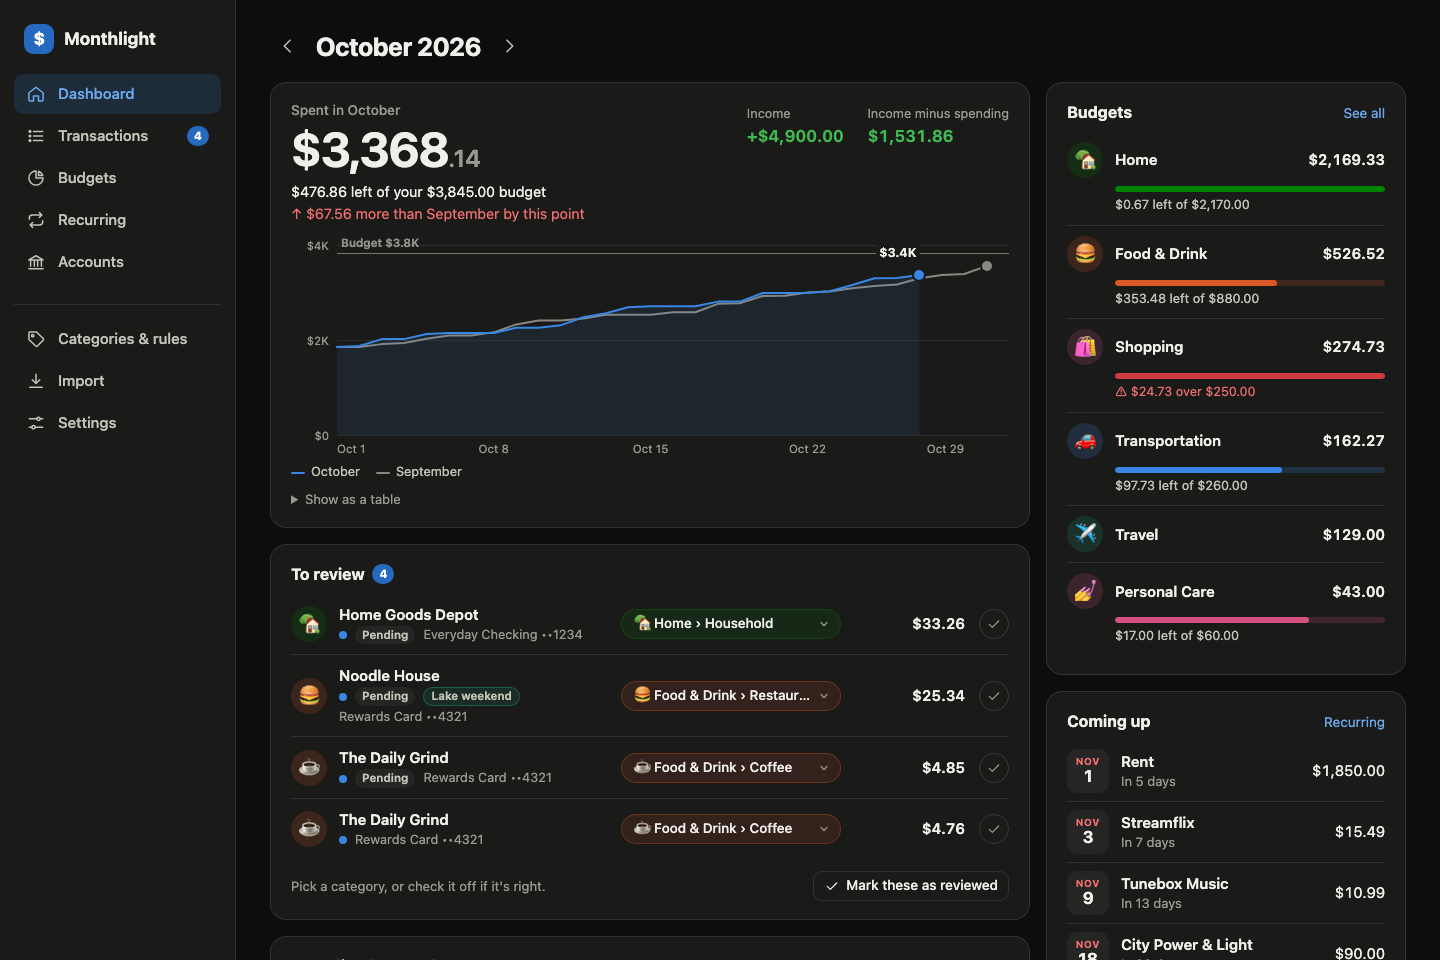
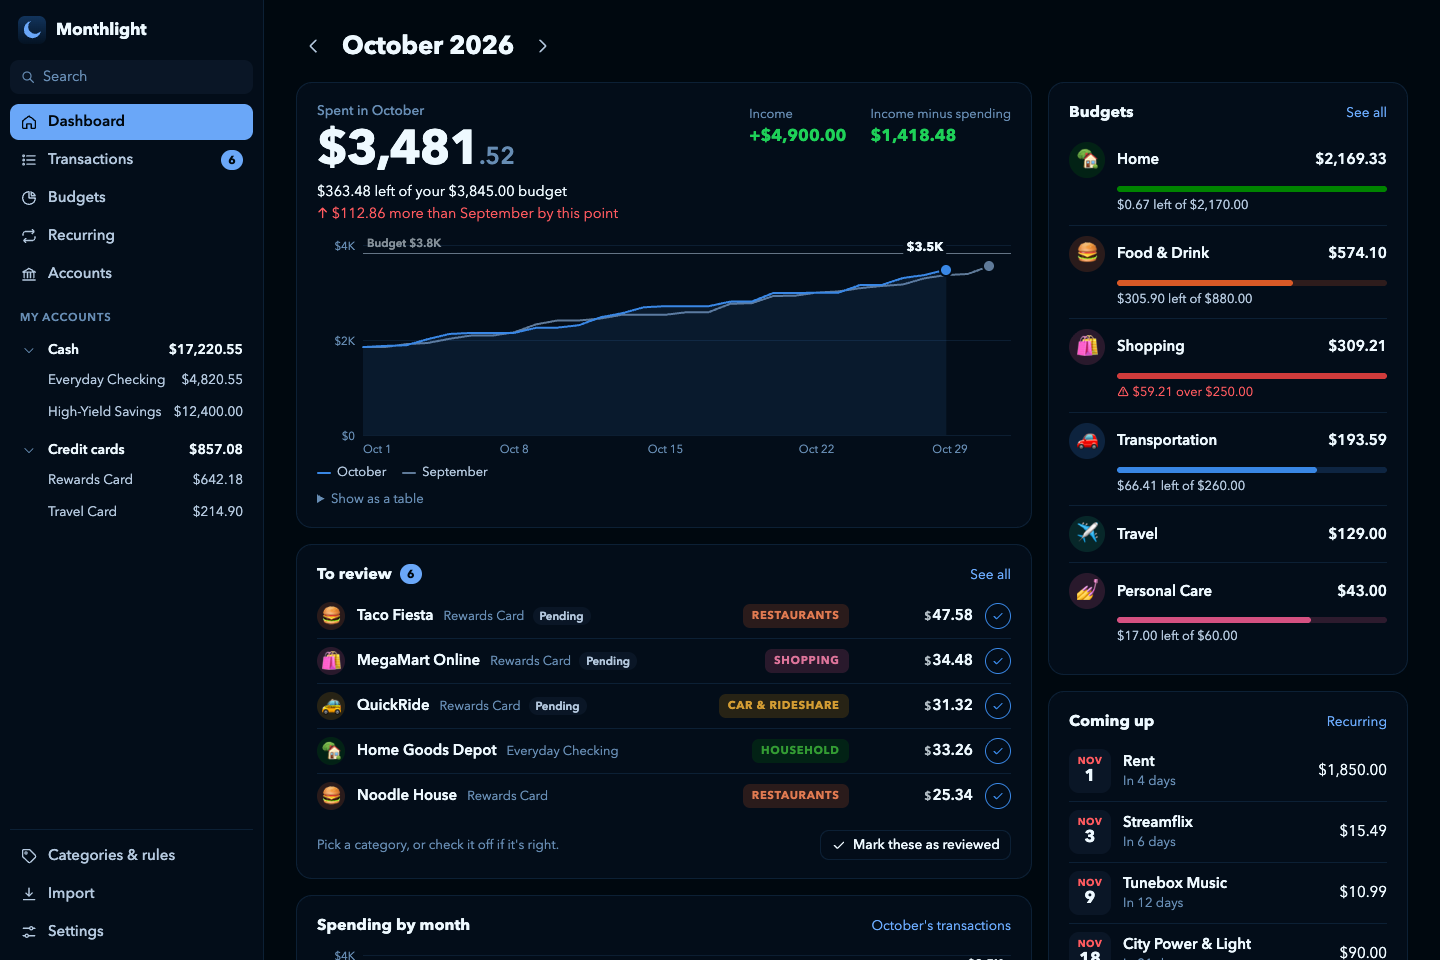
docs: fresh screenshots, and the rest of the redesign moved to v0.2.x
The README's screenshots show the new look, taken from made-up data,
the transactions with one open beside the list. The roadmap lists what
v0.2.0 brings; cleaner names, the filter menu, selecting, the keyboard
and the other pages come next, in v0.2.x, before reports.

diff --git a/ROADMAP.md b/ROADMAP.md
@@ -10,57 +10,49 @@ transactions, tags, budgets, recurring charges and net worth.
 
 ## v0.2.0: the Transactions workspace
 
-The features added so far have made the transactions screens crowded. This release reorganizes them into one
+The features added so far had made the transactions screens crowded. This release starts reorganizing them into one
 workspace, in the style of Copilot Money's Mac app.
 
-- **Three panes on a wide screen:** the sidebar, the list, and the selected transaction beside the list. A phone shows
-  one pane at a time.
+- **Look:** a theme like Copilot Money's, dark and light, on every page, and an icon for the browser tab and a
+  phone's home screen.
 - **Sidebar:** search, the pages, and the accounts by group with their balances.
 - **List:**
   - One line per transaction: name, account, the category, the amount, and small icons for splits, links, paybacks,
-    transfers, notes and tags.
+    transfers, notes and tags. A narrow list gives each row two lines.
   - Each month starts with a card showing income, spending, and what's left of the budget or how far over it is.
-  - Scrolling loads the next month.
-- **Cleaner names:**
-  - New transactions lose the confirmation codes and reference numbers banks add: "Online transfer to savings
-    Conf# 1A2B3C4D" shows as "Online transfer to savings". When Plaid knows the merchant, its name still comes first.
-  - Rename rules beside the category rules: renaming a transaction offers to rename the others with that name, now
-    and later.
-  - Names changed by hand stay as they are, and the bank's own text stays in the transaction's bank details.
-  - Earlier transactions get the same cleanup once, after a preview.
+  - Scrolling loads the earlier months.
 - **The transaction pane:**
-  - Date, name, amount, category, account, notes and tags come first, each saved as soon as it's changed.
-  - Split and Recurring are buttons. Rarer actions sit under a menu: link, pays back, other side, combine, rule and
-    delete.
+  - On a wide screen the selected transaction opens beside the list, which stays usable; elsewhere, over it.
+  - Date, name, category, notes, tags, type and review come first, each saved as soon as it's changed.
+  - Split and Recurring are buttons. Rarer actions sit under a menu: link a payback or the other side of a move,
+    combine, make a rule, unsplit and delete.
   - Splits, paybacks, links and the other side of a move show only when there are some. The bank's details are
     folded at the bottom.
-- **Filters you can see:**
-  - A filter menu has a labeled field for each filter: dates (presets or custom), accounts, categories, tags, type,
-    review status and transfers.
-  - Amount gets a choice of equals, between, more than or less than.
-  - Active filters show as chips you can remove.
-  - The list sorts by date or amount, and totals show what's listed as spent, income and net.
-- **Selecting:** every row has a checkbox. With two or more ticked, the pane edits them together: category, tags,
-  review, exclude, link and combine.
-- **Keyboard:** ↑ and ↓ move, X selects, R marks reviewed, C changes the category, / searches and Esc closes.
-- **Look:** a theme like Copilot Money's, dark and light, on every page, and an icon for the browser tab.
-- **Fresh screenshots** for the README, taken from made-up data.
 - **Kept as it is:**
   - The list still groups splits, links, paybacks and transfers the same way, in the same order within a day.
   - Every page still works without JavaScript, except connecting a bank.
 
-It's built in four steps, each tried on a demo database first:
-
-1. Look and sidebar.
-2. List, pane and names.
-3. Filters, selecting and keyboard.
-4. The other pages.
-
-## v0.2.x: after the redesign
+## v0.2.x: after v0.2.0
 
 In this order, each step its own release.
 
-1. **Reports: where the money goes.**
+1. **Cleaner names.**
+   - New transactions lose the confirmation codes and reference numbers banks add: "Online transfer to savings
+     Conf# 1A2B3C4D" shows as "Online transfer to savings". When Plaid knows the merchant, its name still comes first.
+   - Rename rules beside the category rules: renaming a transaction offers to rename the others with that name, now
+     and later.
+   - Names changed by hand stay as they are, and the bank's own text stays in the transaction's bank details.
+   - Earlier transactions get the same cleanup once, after a preview.
+2. **Filters you can see, selecting and the keyboard.**
+   - A filter menu has a labeled field for each filter: dates (presets or custom), accounts, categories, tags, type,
+     review status and transfers. Amount gets a choice of equals, between, more than or less than.
+   - Active filters show as chips you can remove. The list sorts by date or amount, and totals show what's listed as
+     spent, income and net.
+   - Every row has a checkbox. With two or more ticked, the pane edits them together: category, tags, review,
+     exclude, link and combine.
+   - ↑ and ↓ move, X selects, R marks reviewed, C changes the category, / searches and Esc closes.
+3. **The other pages** laid out like the transactions: the dashboard, budgets, recurring, accounts and settings.
+4. **Reports: where the money goes.**
    - Pick a period: this month, the last 3 or 12 months, year to date, last year, or custom. Totals come by month,
      quarter or year.
    - Show spending, income, net and savings rate, grouped by category, merchant, account or tag.
@@ -72,8 +64,8 @@ In this order, each step its own release.
      - change from the previous period or the same period last year
      - top merchants and biggest expenses
    - Click a bar to see its transactions. Save a report and pin it to the dashboard.
-   - It reuses the filter menu from v0.2.0.
-2. **Categories and budgets.**
+   - It reuses the filter menu.
+5. **Categories and budgets.**
    - Budgets move into a Categories page with spending pace and expected recurring charges.
    - Each category gets its own page: history, average, year to date and top merchants.
    - Budget rollover and budgets that differ by month.

diff --git a/README.md b/README.md
@@ -12,14 +12,14 @@ It's inspired by [Copilot Money](https://copilot.money) (and not affiliated with
 ## Features
 
 - **Dashboard:** this month's spending day by day next to last month's, budgets, transactions to review, upcoming bills and net worth.
-- **Transactions:** search and filters, categories picked right in the list, rules, splits, tags, and paybacks from friends.
+- **Transactions:** one line each, month by month, with the one you pick open beside the list. Search and filters, categories picked right in the list, rules, splits, tags, and paybacks from friends.
 - **Budgets and recurring charges**, with what's left this month.
 - **Accounts:** balances, card limits and net worth over time.
 - **Your data stays with you:** one SQLite file, a backup every day, and a CSV export.
 
 <picture>
   <source media="(prefers-color-scheme: dark)" srcset="docs/images/transactions-dark.png">
-  <img alt="Transactions grouped by day, with an order split into its parts" src="docs/images/transactions-light.png">
+  <img alt="Transactions by month and day, with an order split into its parts, and a transaction open beside the list" src="docs/images/transactions-light.png">
 </picture>
 
 ## Getting started
